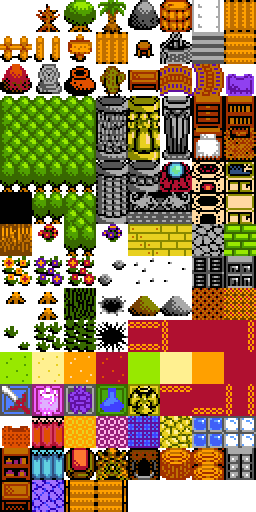
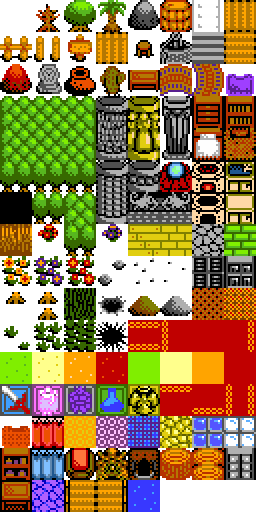
mapchip add water
senv update

diff --git a/www/js/lib/SEnv.js b/www/js/lib/SEnv.js
@@ -396,6 +396,7 @@ define("SEnv", ["Klass", "assert"], function(Klass, assert) {
             t.WriteMaxLen = 20000;
             t.WavOutMode = False;
             t.label2Time=[];
+            t.PC2Time=[];// only ch:0
             t.WFilename = '';
             /* {$ifdef ForM2}
             t.WavOutObj=nil;
@@ -639,6 +640,7 @@ define("SEnv", ["Klass", "assert"], function(Klass, assert) {
             t.WavOutMode=true;
             t.label2Time=[];
             t.loopStart=null;
+            t.PC2Time=[];// only ch:0
             var sec=-1;
             var efficiency=t.wavOutSpeed||10;
             return new Promise(function (succ) {
@@ -783,6 +785,7 @@ define("SEnv", ["Klass", "assert"], function(Klass, assert) {
                     //if (lpchk++>1000) throw new Error("Mugen2");
                     //MCount[ch]=0;
                     var pc = t.MPointC[ch];
+                    if (ch==0) t.PC2Time[pc]=t.writtenSamples;
                     LParam = t.MPoint[ch][pc + 1];
                     HParam = t.MPoint[ch][pc + 2];
                     var code = t.MPoint[ch][pc];
@@ -872,11 +875,11 @@ define("SEnv", ["Klass", "assert"], function(Klass, assert) {
                                 if (t.WavOutMode) {
                                     if (ch==0) {
                                         var dstLabelPos=t.MPointC[ch] + array2Int(t.MPoint[ch], pc+1);
-                                        var dstLabelNum=t.MPoint[ch][dstLabelPos+1];
-                                        var dstTime=t.label2Time[dstLabelNum-0];
-                                        if (dstTime && dstTime[0]<t.writtenSamples) {
-                                            t.loopStart=dstTime;
-                                            console.log("@jump", dstLabelNum, "ofs=",t.loopStart );
+                                        //var dstLabelNum=t.MPoint[ch][dstLabelPos+1];
+                                        var dstTime=t.PC2Time[dstLabelPos];// t.label2Time[dstLabelNum-0];
+                                        if (typeof dstTime=="number" && dstTime<t.writtenSamples) {
+                                            t.loopStart=[dstTime, t.sampleRate];
+                                            console.log("@jump", "ofs=",t.loopStart );
                                         }
                                     }
                                     t.MPointC[ch] += 5;
